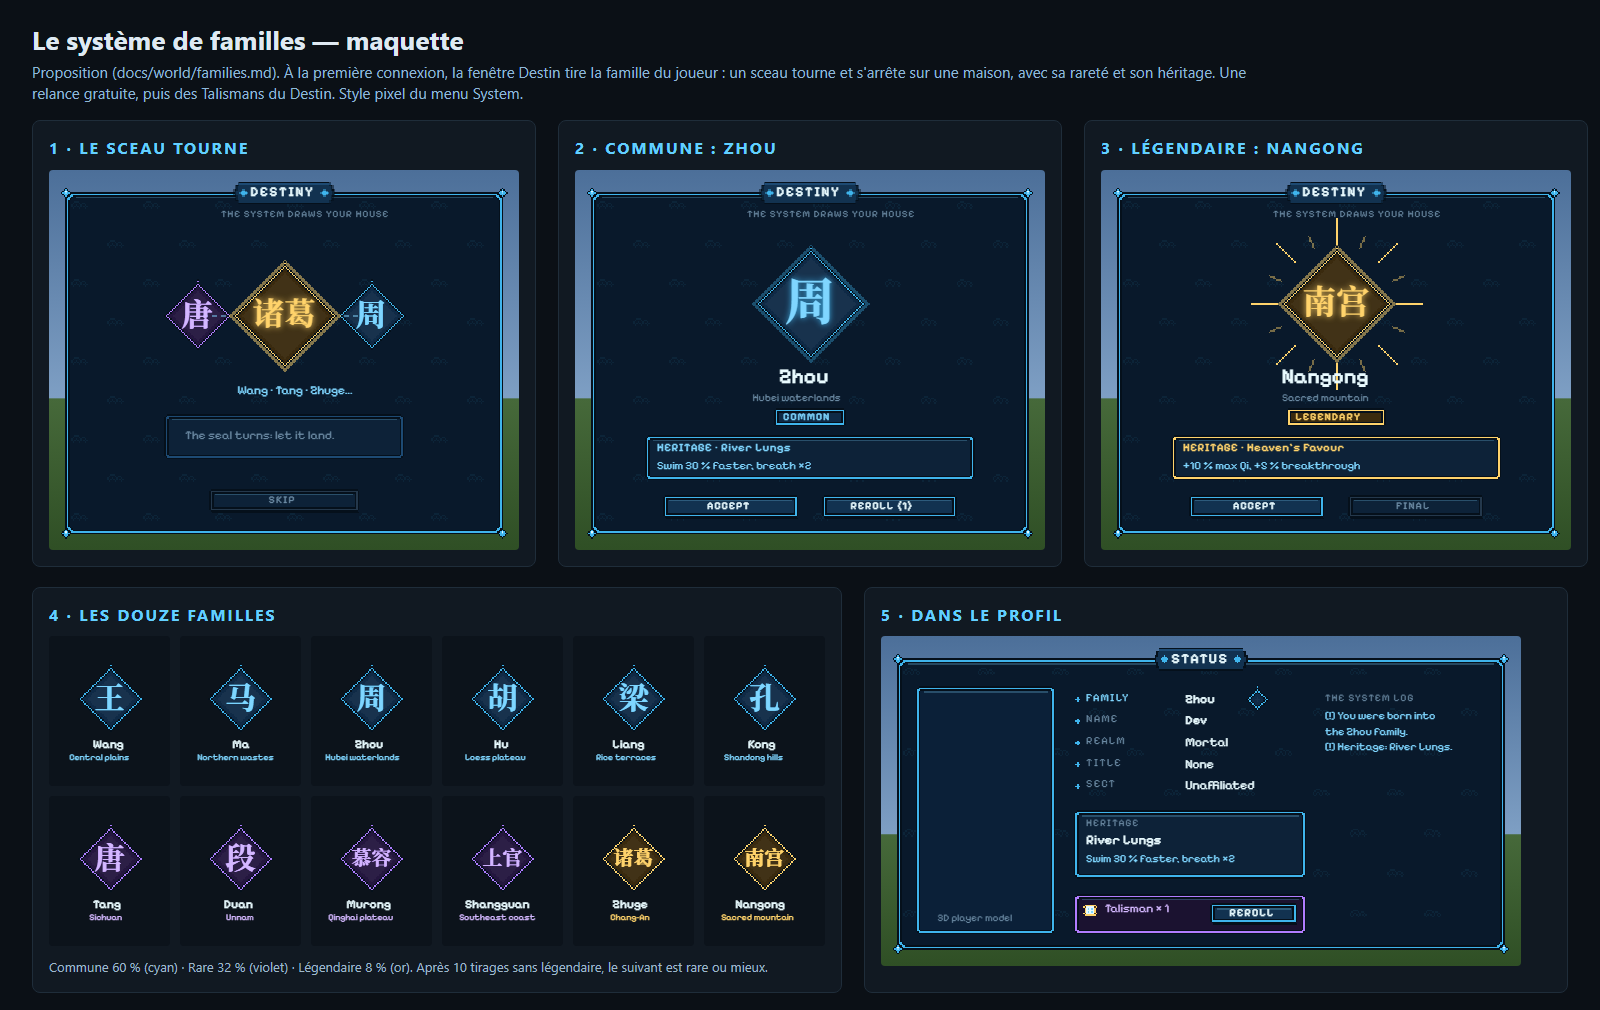
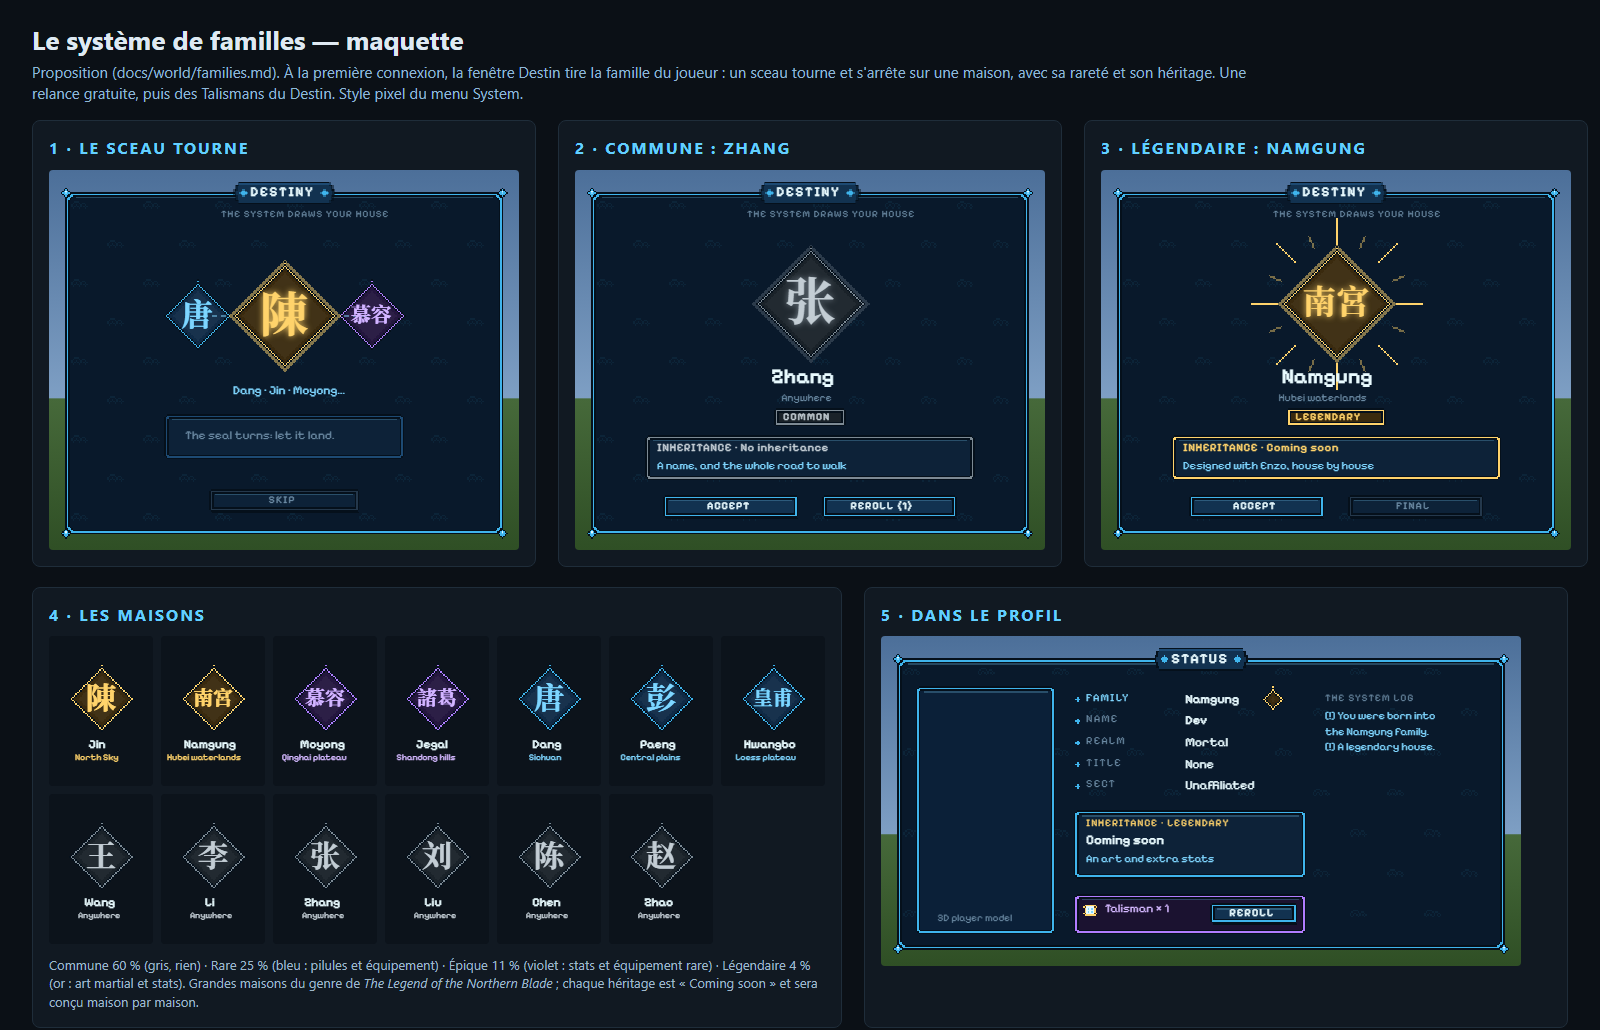
Families: four rarities (common nothing, rare pills and gear, epic stats and rare gear, legendary art and stats), the genre's great houses, each coming soon

diff --git a/docs/gui/boards/families.html b/docs/gui/boards/families.html
@@ -17,19 +17,19 @@ h2 { margin: 0 0 10px; font-size: 16px; color: #63cfff; text-transform: uppercas
 ul { margin: 0; padding-left: 18px; } li { margin: 0 0 6px; } b { color: #fff; }
 
 .han { font-family: "Noto Serif SC", serif !important; }
-.grid12 { display: grid; grid-template-columns: repeat(6, 1fr); gap: 10px; }
+.grid12 { display: grid; grid-template-columns: repeat(7, 1fr); gap: 8px; }
 </style></head><body>
 <div class="top"><h1>Le système de familles — maquette</h1>
 <p>Proposition (docs/world/families.md). À la première connexion, la fenêtre Destin tire la famille du joueur : un sceau tourne et s'arrête sur une maison, avec sa rareté et son héritage. Une relance gratuite, puis des Talismans du Destin. Style pixel du menu System.</p></div>
 
 <div class="row" style="grid-template-columns: 1fr 1fr 1fr">
   <div class="card"><h2>1 · Le sceau tourne</h2><div class="scene" id="spin" style="width:470px;height:380px"></div></div>
-  <div class="card"><h2>2 · Commune : Zhou</h2><div class="scene" id="common" style="width:470px;height:380px"></div></div>
-  <div class="card"><h2>3 · Légendaire : Nangong</h2><div class="scene" id="legend" style="width:470px;height:380px"></div></div>
+  <div class="card"><h2>2 · Commune : Zhang</h2><div class="scene" id="common" style="width:470px;height:380px"></div></div>
+  <div class="card"><h2>3 · Légendaire : Namgung</h2><div class="scene" id="legend" style="width:470px;height:380px"></div></div>
 </div>
 <div class="row" style="grid-template-columns: 1.15fr 1fr">
-  <div class="card"><h2>4 · Les douze familles</h2><div class="grid12" id="all"></div>
-    <p style="margin:12px 0 0;font-size:13px;color:#9fb7c9">Commune 60 % (cyan) · Rare 32 % (violet) · Légendaire 8 % (or). Après 10 tirages sans légendaire, le suivant est rare ou mieux.</p></div>
+  <div class="card"><h2>4 · Les maisons</h2><div class="grid12" id="all"></div>
+    <p style="margin:12px 0 0;font-size:13px;color:#9fb7c9">Commune 60 % (gris, rien) · Rare 25 % (bleu : pilules et équipement) · Épique 11 % (violet : stats et équipement rare) · Légendaire 4 % (or : art martial et stats). Grandes maisons du genre de <i>The Legend of the Northern Blade</i> ; chaque héritage est « Coming soon » et sera conçu maison par maison.</p></div>
   <div class="card"><h2>5 · Dans le Profil</h2><div class="scene" id="profile" style="width:640px;height:330px"></div></div>
 </div>
 
@@ -187,22 +187,18 @@ function pose(g, x, y, k) {
 }
 
 
-const RAR = {c: {line: P.c, fill: '#0f2a46', glow: 'rgba(63,180,236,.35)', name: 'COMMON', col: P.l},
-  r: {line: '#b07cff', fill: '#24163f', glow: 'rgba(176,124,255,.4)', name: 'RARE', col: '#d4b8ff'},
+const RAR = {c: {line: '#7d8a94', fill: '#1a2229', glow: 'rgba(125,138,148,.3)', name: 'COMMON', col: '#c3cdd4'},
+  r: {line: P.c, fill: '#0f2a46', glow: 'rgba(63,180,236,.35)', name: 'RARE', col: P.l},
+  e: {line: '#b07cff', fill: '#24163f', glow: 'rgba(176,124,255,.4)', name: 'EPIC', col: '#d4b8ff'},
   l: {line: P.y, fill: '#3a2a0e', glow: 'rgba(255,211,107,.5)', name: 'LEGENDARY', col: P.y}};
+const SOON = ['Coming soon', 'Designed with Enzo, house by house'];
 const FAM = [
-  ['Wang', '王', 'Central plains', 'c', 'Rooted Stance', '−20 % knockback taken'],
-  ['Ma', '马', 'Northern wastes', 'c', 'Born in the Saddle', 'A saddle; horses run 15 % faster'],
-  ['Zhou', '周', 'Hubei waterlands', 'c', 'River Lungs', 'Swim 30 % faster, breath ×2'],
-  ['Hu', '胡', 'Loess plateau', 'c', 'Loess Hands', 'Dig earth 25 % faster, +1 fist'],
-  ['Liang', '梁', 'Rice terraces', 'c', 'Harvest Blessing', 'Eating: Regeneration I, 5 s'],
-  ['Kong', '孔', 'Shandong hills', 'c', "Scholar's Mind", '+10 % art mastery'],
-  ['Tang', '唐', 'Sichuan', 'r', 'Tang Darts', '16 throwing darts'],
-  ['Duan', '段', 'Unnam', 'r', 'One Finger Qi', 'A Qi bolt, 12 blocks'],
-  ['Murong', '慕容', 'Qinghai plateau', 'r', 'Return to Sender', '10 % melee damage returned'],
-  ['Shangguan', '上官', 'Southeast coast', 'r', 'Coastal Fortune', '30 taels and a fine sword'],
-  ['Zhuge', '诸葛', 'Chang-An', 'l', 'Eight Gates', 'A slowing formation, 6 s'],
-  ['Nangong', '南宫', 'Sacred mountain', 'l', "Heaven's Favour", '+10 % max Qi, +5 % breakthrough'],
+  ['Jin', '陳', 'North Sky', 'l', ...SOON], ['Namgung', '南宮', 'Hubei waterlands', 'l', ...SOON],
+  ['Moyong', '慕容', 'Qinghai plateau', 'e', ...SOON], ['Jegal', '諸葛', 'Shandong hills', 'e', ...SOON],
+  ['Dang', '唐', 'Sichuan', 'r', ...SOON], ['Paeng', '彭', 'Central plains', 'r', ...SOON], ['Hwangbo', '皇甫', 'Loess plateau', 'r', ...SOON],
+  ['Wang', '王', 'Anywhere', 'c', 'No inheritance', 'A name, and the whole road to walk'], ['Li', '李', 'Anywhere', 'c', 'No inheritance', ''],
+  ['Zhang', '张', 'Anywhere', 'c', 'No inheritance', 'A name, and the whole road to walk'], ['Liu', '刘', 'Anywhere', 'c', 'No inheritance', ''],
+  ['Chen', '陈', 'Anywhere', 'c', 'No inheritance', ''], ['Zhao', '赵', 'Anywhere', 'c', 'No inheritance', ''],
 ];
 function scene(id, w, h, scale) {
   const host = document.getElementById(id), c = document.createElement('canvas');
@@ -240,10 +236,10 @@ function destiny(id, fam, o = {}) {
   win(p, 300, 240, 'DESTINY');
   T(108, 20, 'THE SYSTEM DRAWS YOUR HOUSE', 6.5, P.s, 'letter-spacing:1px');
   if (o.spin) {
-    for (const [dx, f, a] of [[-58, FAM[6], .35], [58, FAM[2], .35]]) { crest(p, 150 + dx, 90, 22, f); }
-    crest(p, 150, 90, 34, FAM[10], {glow: true});
+    for (const [dx, f, a] of [[-58, FAM[4], .35], [58, FAM[2], .35]]) { crest(p, 150 + dx, 90, 22, f); }
+    crest(p, 150, 90, 34, FAM[0], {glow: true});
     for (let k = 0; k < 3; k++) { px(g, 108 - k * 6, 90, 'rgba(127,214,255,.5)', 3, 1); px(g, 190 + k * 6, 90, 'rgba(127,214,255,.5)', 3, 1); }
-    T(119, 136, 'Wang · Tang · Zhuge…', 8, P.l);
+    T(116, 136, 'Dang · Jin · Moyong…', 8, P.l);
     frame(g, 70, 156, 160, 30, {cut: 2, line: P.m, fill: P.d});
     T(84, 166, 'The seal turns: let it land.', 8, P.s);
     button(p, 100, 206, 100, 15, 'SKIP', {dim: 1});
@@ -254,14 +250,14 @@ function destiny(id, fam, o = {}) {
   T(150 - (fam[2].length * 2.4), 142, fam[2], 7, P.s);
   tag(p, 150 - (RAR[fam[3]].name.length * 6 + 12) / 2, 152, fam);
   frame(g, 40, 170, 220, 30, {cut: 2, line: RAR[fam[3]].line, fill: P.d});
-  T(48, 175, 'HERITAGE · ' + fam[4], 7.5, RAR[fam[3]].col, 'letter-spacing:.5px;font-weight:600');
+  T(48, 175, 'INHERITANCE · ' + fam[4], 7.5, RAR[fam[3]].col, 'letter-spacing:.5px;font-weight:600');
   T(48, 187, fam[5], 7.5, P.l);
   button(p, 52, 210, 90, 15, 'ACCEPT');
   button(p, 158, 210, 90, 15, o.final ? 'FINAL' : 'REROLL (1)', o.final ? {dim: 1} : {});
 }
 destiny('spin', null, {spin: true});
-destiny('common', FAM[2]);
-destiny('legend', FAM[11], {final: true});
+destiny('common', FAM[9]);
+destiny('legend', FAM[1], {final: true});
 
 document.getElementById('all').innerHTML = FAM.map((f, i) => `<div><div class="scene" id="f${i}" style="width:100%;height:150px;background:#0c131b"></div></div>`).join('');
 FAM.forEach((f, i) => { const p = scene('f' + i, 70, 70, 1.6); crest(p, 35, 27, 20, f); p.T(35 - f[0].length * 2.6, 52, f[0], 7.5, P.w, 'font-weight:600'); p.T(35 - f[2].length * 1.8, 61, f[2], 5.5, RAR[f[3]].col); });
@@ -271,15 +267,15 @@ FAM.forEach((f, i) => { const p = scene('f' + i, 70, 70, 1.6); crest(p, 35, 27, 
   const p = scene('profile', 400, 200, 1.55), {g, T} = p;
   win(p, 400, 200, 'STATUS');
   frame(g, 16, 26, 90, 160, {cut: 2, fill: '#0b2038'}); T(30, 172, '3D player model', 6.5, P.s);
-  const rows = [['FAMILY', 'Zhou'], ['NAME', 'Dev'], ['REALM', 'Mortal'], ['TITLE', 'None'], ['SECT', 'Unaffiliated']];
+  const rows = [['FAMILY', 'Namgung'], ['NAME', 'Dev'], ['REALM', 'Mortal'], ['TITLE', 'None'], ['SECT', 'Unaffiliated']];
   rows.forEach(([k, v], i) => { diamond(g, 120, 34 + i * 14, 1, P.c); label(p, 126, 30 + i * 14, k, i === 0 ? P.l : P.s); T(190, 30 + i * 14, v, 8, P.w, i < 2 ? 'font-weight:600' : ''); });
-  crest(p, 236, 34, 7, FAM[2], {blank: true});
+  crest(p, 246, 34, 7, FAM[1], {blank: true});
   frame(g, 118, 106, 150, 44, {cut: 2, line: P.c, fill: P.d});
-  T(126, 111, 'HERITAGE', 6.5, P.s, 'letter-spacing:1px'); T(126, 121, 'River Lungs', 8.5, P.w, 'font-weight:600'); T(126, 134, 'Swim 30 % faster, breath ×2', 7, P.l);
+  T(126, 111, 'INHERITANCE · LEGENDARY', 6.5, P.y, 'letter-spacing:1px'); T(126, 121, 'Coming soon', 8.5, P.w, 'font-weight:600'); T(126, 134, 'An art and extra stats', 7, P.l);
   frame(g, 118, 160, 150, 26, {cut: 2, line: '#b07cff', fill: '#1b1230'});
   spr(g, 124, 167, 'scroll', 1); T(138, 166, 'Talisman × 1', 7.5, '#d4b8ff');
   button(p, 206, 166, 56, 13, 'REROLL');
   T(280, 30, 'THE SYSTEM LOG', 6.5, P.s, 'letter-spacing:1px');
-  ['[!] You were born into', '    the Zhou family.', '[!] Heritage: River Lungs.'].forEach((l, i) => T(280, 42 + i * 10, l, 7, P.l));
+  ['[!] You were born into', '    the Namgung family.', '[!] A legendary house.'].forEach((l, i) => T(280, 42 + i * 10, l, 7, P.l));
 }
 </script></body></html>

diff --git a/docs/world/families.md b/docs/world/families.md
@@ -1,77 +1,79 @@
 # Families (proposal, 30 Oct 2026)
 
-> Status: proposal to validate; nothing is in game. Enzo, 30 Oct 2026: start the family system from scratch (nothing
-> taken from V1), a random draw with rerolls, design doc and mockup first. Mockup:
-> `docs/gui/boards/families.png` (source `families.html`).
+> Status: proposal; nothing is in game. Enzo, 30 Oct 2026:
+> - start the family system from scratch (nothing taken from V1), a random draw with rerolls, design doc and mockup
+>   first;
+> - legendary families give a martial art and extra stats, epic ones stats and rare equipment, rare ones pills and
+>   equipment, common ones nothing;
+> - the great families are the ones of the genre around *The Legend of the Northern Blade*; every family is "coming
+>   soon" for now, and each is designed with Enzo one by one.
+>
+> Mockup: `docs/gui/boards/families.png` (source `families.html`).
 
 ## The idea
 
-A sect teaches whoever it picks; a family hands down by blood. Every player is born into one of the Murim's houses: on
-first joining a world the System draws a family for them. The family gives a surname (shown on the Profile) and a
-**heritage**, one small permanent bonus in the house's style. It colours the start of a character; it never replaces
-what the player earns by playing (arts, realms, meridians).
+A sect teaches whoever it picks; a family hands down by blood. Every player is born into a house of the Murim: on first
+joining a world the System draws it. The family gives a surname (shown on the Profile) and, for the great houses, an
+**inheritance** whose size follows the house's rarity.
+
+## Rarities and what each gives
+
+| Rarity | Chance | Houses | Colour | Inheritance |
+|---|---|---|---|---|
+| Common | 60 % | 6 ordinary surnames (10 % each) | grey | Nothing: a name, and the whole road to walk. |
+| Rare | 25 % | 3 (about 8.3 % each) | blue | Pills and equipment of the house. |
+| Epic | 11 % | 2 (5.5 % each) | violet | Extra stats and rare equipment. |
+| Legendary | 4 % | 2 (2 % each) | gold | The house's martial art and extra stats. |
+
+The exact content of each house (which pills, which stats, which art) is designed with Enzo, one house at a time; until
+then each shows **Coming soon**.
 
 ## The draw
 
 - **When:** the first time a player joins a world, before they move, the System opens the **Destiny** window. It also
   opens from the Profile page while the player has a reroll to spend.
-- **How:** a seal spins and lands on a family; the window shows its name, zone, rarity, crest and heritage.
-- **Rarities:**
-
-  | Rarity | Chance | Families | Colour |
-  |---|---|---|---|
-  | Common | 60 % | 6 (10 % each) | cyan |
-  | Rare | 32 % | 4 (8 % each) | violet |
-  | Legendary | 8 % | 2 (4 % each) | gold |
-
+- **How:** a seal spins and lands on a house; the window shows its name, rarity, crest and inheritance.
 - **Rerolls:**
-  - one free reroll in the first Destiny window: **ACCEPT** keeps the family, **REROLL** draws again (and the second
-    draw is final);
+  - one free reroll in the first Destiny window: **ACCEPT** keeps the house, **REROLL** draws again (the second draw is
+    final);
   - later, a **Destiny Talisman** (rare: boss drops, quest rewards; never crafted) gives one more reroll, spent from the
-    Profile page. A reroll always draws among all families, the current one included;
-  - **pity:** after 10 draws in a row without a legendary, the next draw is rare or better.
-- **One family per player**, saved with their data under a stable id (like arts). Kept on death. In multiplayer each
+    Profile page; a reroll draws among all houses, the current one included;
+  - **pity:** after 10 draws in a row without an epic or legendary house, the next one is epic or better.
+- **One house per player**, saved with their data under a stable id (like arts). Kept on death. In multiplayer each
   player draws their own.
 
-## The twelve families
+## The houses
 
-One or two per zone of the [Murim map](map.md), named for the land they hold. Names in game are in English; Chinese
-characters are kept in the crest.
+The great houses are the ones of the Korean murim genre that *The Legend of the Northern Blade* moves among (the
+"great families" trope): their surnames are the genre's, written in the Korean romanisation the manhwa uses. Nothing
+else is taken from the work: no characters, story or events. Seats are proposals on the [Murim map](map.md).
 
-| Family | Zone | Rarity | Heritage | Kind | What it does |
+| House | Characters | Rarity | Seat (proposal) | Known for, in the genre | Inheritance |
 |---|---|---|---|---|---|
-| **Wang** 王 | Central plains | Common | *Rooted Stance* | Passive | −20 % knockback taken. |
-| **Ma** 马 | Northern wastes | Common | *Born in the Saddle* | Passive + item | A saddle at start; a ridden horse runs 15 % faster. |
-| **Zhou** 周 | Hubei waterlands | Common | *River Lungs* | Passive | Swims 30 % faster, holds breath twice as long. |
-| **Hu** 胡 | Loess plateau | Common | *Loess Hands* | Passive | Digs earth, sand and loess 25 % faster; +1 bare-hand damage. |
-| **Liang** 梁 | Honam rice terraces | Common | *Harvest Blessing* | Passive | Eating gives Regeneration I for 5 s. |
-| **Kong** 孔 | Shandong hills | Common | *Scholar's Mind* | Passive | +10 % art mastery gained. |
-| **Tang** 唐 | Sichuan (the Tang clan site) | Rare | *Tang Darts* | Item | 16 throwing darts at start, picked back up after a throw; the clan restocks them (a recipe). |
-| **Duan** 段 | Unnam | Rare | *One Finger Qi* | Technique | A thin bolt of Qi from the finger, 12 blocks, 15 Qi, 8 s; its own seal beside the art's on the combat bar. |
-| **Murong** 慕容 | Qinghai plateau | Rare | *Return to Sender* | Passive | 10 % of melee damage taken is returned to the striker. |
-| **Shangguan** 上官 | Southeast coast | Rare | *Coastal Fortune* | Item | 30 taels and a fine sword at start. |
-| **Zhuge** 诸葛 | Chang-An (loess) | Legendary | *Eight Gates* | Technique | A formation drawn on the ground (6 blocks) that slows foes inside for 6 s; 30 Qi, 30 s. |
-| **Nangong** 南宫 | The sacred mountain | Legendary | *Heaven's Favour* | Passive | +10 % maximum Qi and +5 % breakthrough chance. |
+| **Jin** | 陳 (to confirm) | Legendary | North Sky (the reserved site, north) | the fallen house of the north, its blade art hidden for years | Coming soon |
+| **Namgung** | 南宮 | Legendary | Hubei waterlands | the great sword family of the plains, proud and old | Coming soon |
+| **Moyong** | 慕容 | Epic | Qinghai plateau | refined swordsmen of the west, masters of returning a blow | Coming soon |
+| **Jegal** | 諸葛 | Epic | Shandong hills | strategists, formations and mechanisms | Coming soon |
+| **Dang** | 唐 | Rare | Sichuan (the Tang clan site) | poisons, antidotes and hidden weapons | Coming soon |
+| **Paeng** | 彭 | Rare | Central plains | the saber family, raw strength | Coming soon |
+| **Hwangbo** | 皇甫 | Rare | Loess plateau | the fist and the iron body | Coming soon |
+| Wang, Li, Zhang, Liu, Chen, Zhao | 王 李 张 刘 陈 赵 | Common | anywhere | ordinary families of the Murim | Nothing |
 
-Eight passives, two items, two techniques; the numbers are a first pass, to tune in game. The legendaries are the ones
-worth a talisman; the commons are pleasant, never decisive.
+(Chen and Jin share 陳 in Korean; if Jin is confirmed with it, the common Chen becomes another surname.)
 
 ## Where it shows
 
-- **Profile:** a FAMILY row (crest, name, rarity colour) above TITLE, and the heritage in the Qi column; a REROLL
+- **Profile:** a FAMILY row (crest, name, rarity colour) above TITLE, the inheritance in the Qi column, and a REROLL
   button while the player holds a talisman.
-- **Combat bar:** a family technique (Duan, Zhuge) gets a small seal of its own, left of the art's seals, on its own key
-  (a seventh technique key, rebindable).
-- **System log:** "[!] You were born into the Zhou family." and every reroll.
+- **System log:** "[!] You were born into the Namgung family." and every reroll.
+- A legendary house's art joins the player's known arts in K, Techniques.
 
-## Later (not in this first slice)
+## Later
 
-- Each family's seat on the map (beside the reserved faction sites), its elder and its family quest.
+- Each house's seat on the map, its elder and its family quest.
 - Family reputation; marriages and adoption between players.
-- A family art (a full martial art) taught only to its members, at a high realm.
 
 ## First slice (once validated)
 
-Family data and save (`FamilyData`, stable ids), the draw with its free reroll and pity, the Destiny window in the
-System's pixel art, the Profile row and the eight passive heritages. Items and the two techniques come after (the
-techniques wait for the combat technique system).
+House data and save (`FamilyData`, stable ids), the draw with its free reroll and pity, the Destiny window in the
+System's pixel art, the Profile row and the log lines. Inheritances stay "Coming soon" until each house is designed.

diff --git a/docs/README.md b/docs/README.md
@@ -14,7 +14,8 @@ One file per feature or decision, added as the work goes.
 - [Visual rules](art/visual-rules.md): the art direction, relief on every model, hand-shaded textures, the process.
 - [Mob sheets](mobs/): one validated design sheet per mob and its model renders (Disciple déchu = zombie).
 - [Murim map](world/map.md): the fixed Murim continent, its ten zones and biomes, relief, rivers and reserved sites (plan).
-- [Families](world/families.md): the house each player is born into, drawn with rerolls, and its heritage (proposal).
+- [Families](world/families.md): the house each player is born into, drawn with rerolls; four rarities, each house
+  "coming soon" until designed one by one (proposal).
 - [Two PCs](two-pcs.md): how the two PCs stay in sync through GitHub, phone access, and the second PC's setup prompt.
 - [Playtest checklist](playtest/tests-en-jeu.pdf): what Enzo tests in game, to tick and annotate (in French; source
   `tests-en-jeu.html`, printed to PDF with Chrome headless).
